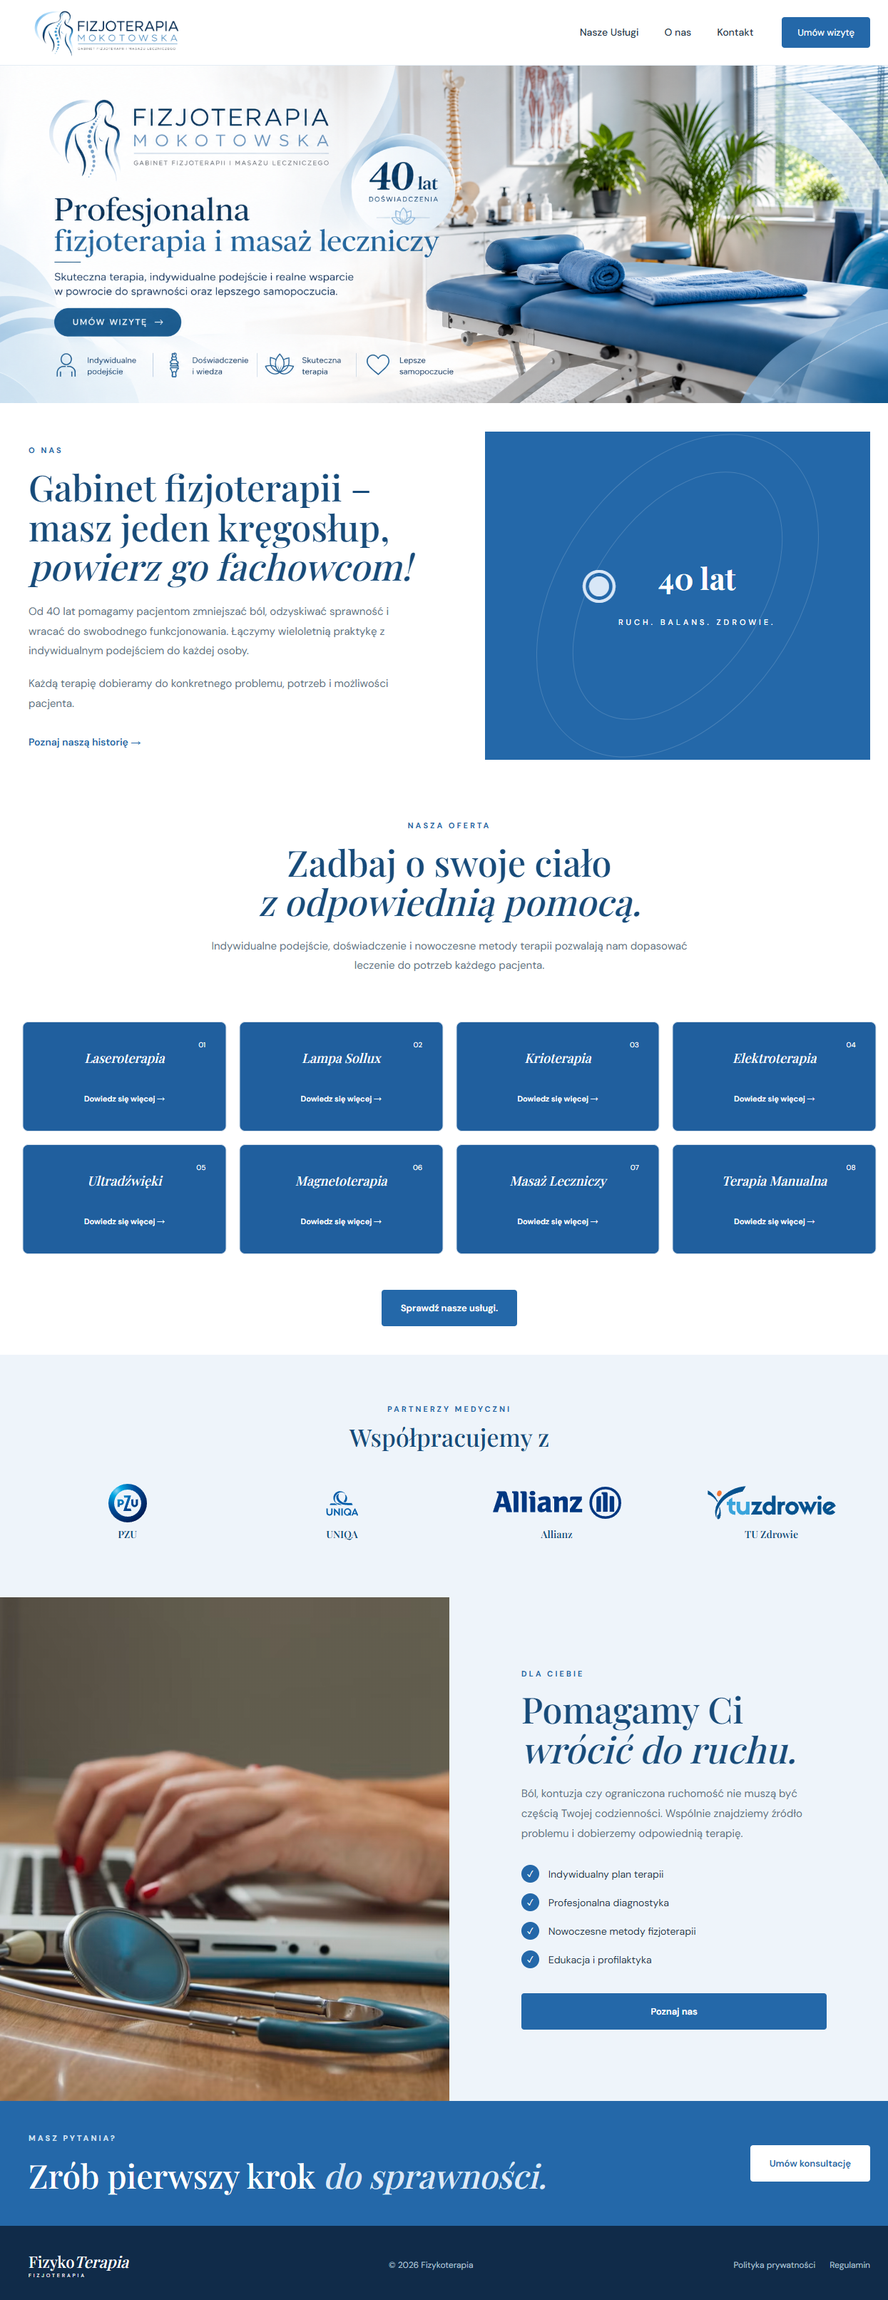
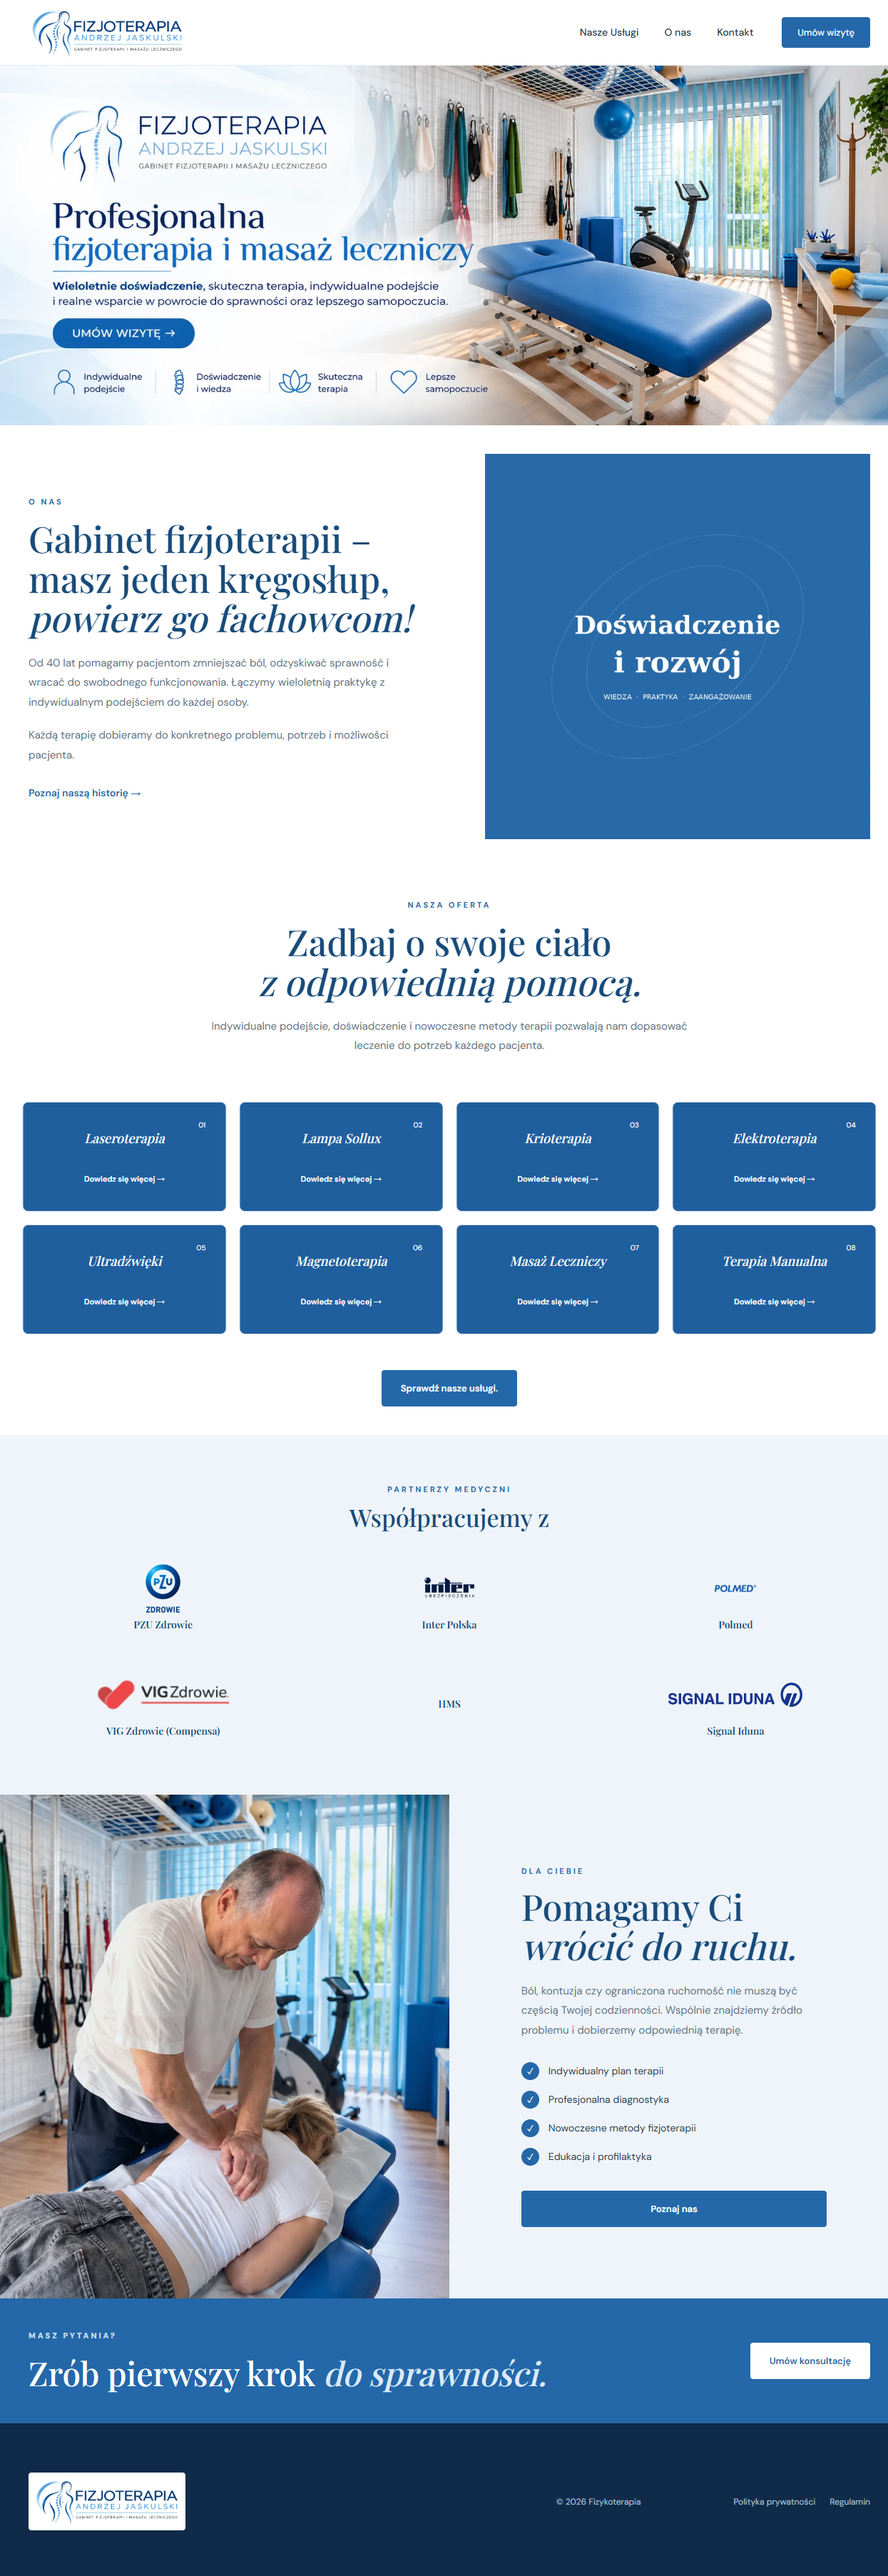
poprawki

diff --git a/.html/index.html b/.html/index.html
@@ -18,7 +18,7 @@
     <div class="container nav-inner">
 
         <a href="kontakt.html" class="logo">
-            <img class="logo-image" src="images/logo_fizjo%20(1).png" alt="Fizjoterapia Mokotowska">
+            <img class="logo-image" src="images/logo-masaz-aj.webp" alt="Fizjoterapia Mokotowska">
         </a>
 
         <nav>
@@ -41,7 +41,7 @@
 
 <section class="hero home-hero">
 
-    <img class="hero-image" src="images/baner-glowny.png" alt="Fizjoterapia Mokotowska: profesjonalna fizjoterapia i masaż leczniczy w gabinecie">
+    <img class="hero-image" src="images/head.webp" alt="Fizjoterapia Mokotowska: profesjonalna fizjoterapia i masaż leczniczy w gabinecie">
 
 </section>
 
@@ -80,17 +80,10 @@
         </div>
 
         <div class="about-box">
-
-            <div class="owl">
-                ◉
-            </div>
-
-            <h3>
-                40 lat
-                <br>
-                <span>Ruch. Balans. Zdrowie.</span>
-            </h3>
-
+            <img
+                class="about-box-image"
+                src="images/doswiadczenie_i_rozwoj.webp"
+                alt="Doświadczenie i rozwój — wiedza, praktyka, zaangażowanie">
         </div>
 
     </div>
@@ -223,20 +216,27 @@
 
         <div class="partner-list">
             <div class="partner-logo">
-                <img src="images/pzu-logo.svg" alt="">
-                <span class="partner-name">PZU</span>
+                <img src="https://zdrowie.pzu.pl/_fileserver/item/1501252" alt="Logo PZU Zdrowie">
+                <span class="partner-name">PZU Zdrowie</span>
             </div>
             <div class="partner-logo">
-                <img src="images/uniqa-logo.svg" alt="">
-                <span class="partner-name">UNIQA</span>
+                <img src="https://upload.wikimedia.org/wikipedia/commons/e/e2/INTER_Polska.jpg" alt="Logo INTER Polska">
+                <span class="partner-name">Inter Polska</span>
             </div>
             <div class="partner-logo">
-                <img src="images/allianz-logo.svg" alt="">
-                <span class="partner-name">Allianz</span>
+                <img src="https://polmed.pl/wp-content/uploads/2023/02/polmed_logo_RGB_SQUARE.png" alt="Logo POLMED">
+                <span class="partner-name">Polmed</span>
             </div>
             <div class="partner-logo">
-                <img src="images/tu-zdrowie-logo.svg" alt="">
-                <span class="partner-name">TU Zdrowie</span>
+                <img src="https://www.vigzdrowie.pl/wp-content/uploads/2026/02/cropped-logo_VIGZdrowie_RGB-208x55.png" alt="Logo VIG Zdrowie">
+                <span class="partner-name">VIG Zdrowie (Compensa)</span>
+            </div>
+            <div class="partner-logo">
+                <span class="partner-name">HMS</span>
+            </div>
+            <div class="partner-logo">
+                <img src="https://upload.wikimedia.org/wikipedia/commons/d/d1/Signal_Iduna_logo.svg" alt="Logo SIGNAL IDUNA">
+                <span class="partner-name">Signal Iduna</span>
             </div>
         </div>
 
@@ -329,7 +329,7 @@
     <div class="container footer-inner">
 
         <a href="index.html" class="footer-logo footer-logo-home">
-            <img src="images/logo_fizjo%20(1).png" alt="Fizjoterapia Mokotowska">
+            <img src="images/logo-masaz-aj.webp" alt="Fizjoterapia Mokotowska">
         </a>
 
         <div class="footer-map">

diff --git a/.html/css/style.css b/.html/css/style.css
@@ -163,7 +163,7 @@ nav a:hover {
             rgba(235,243,251,.91) 42%,
             rgba(235,243,251,.25) 100%
         ),
-        url("../images/ZdjecieTymczasowe.png") center center / cover no-repeat;
+        url("../images/head.webp") center center / cover no-repeat;
 }
 
 .home-hero {
@@ -331,7 +331,7 @@ h2 i {
 
 .partner-list {
     display: grid;
-    grid-template-columns: repeat(4, minmax(0, 1fr));
+    grid-template-columns: repeat(3, minmax(0, 1fr));
     align-items: center;
     justify-items: center;
     gap: 24px;
@@ -348,10 +348,11 @@ h2 i {
 }
 
 .partner-logo img {
-    width: 180px;
+    width: 190px;
     max-width: 100%;
-    height: 54px;
+    height: 68px;
     object-fit: contain;
+    mix-blend-mode: multiply;
 }
 
 .partner-name {
@@ -511,7 +512,7 @@ h2 i {
 .split-image {
     background:
         linear-gradient(rgba(36,104,169,.08), rgba(36,104,169,.08)),
-        url("https://images.unsplash.com/photo-1576091160550-2173dba999ef?auto=format&fit=crop&w=1200&q=85") 
+        url("../images/masazysta-andrzej-jaskulski.webp")
         center/cover; 
 } 
  
@@ -583,54 +584,16 @@ h2 i {
 } 
  
 .about-box { 
-    min-height: 460px; 
-    background: var(--green); 
-    position: relative; 
-    display: flex; 
-    align-items: center; 
-    justify-content: center; 
-    text-align: center; 
+    aspect-ratio: 1;
     overflow: hidden; 
 } 
  
-.about-box::before, 
-.about-box::after { 
-    content: ""; 
-    position: absolute; 
-    width: 330px; 
-    height: 500px; 
-    border: 1px solid rgba(255,255,255,.16); 
-    border-radius: 50%; 
-    transform: rotate(35deg); 
-} 
- 
-.about-box::after { 
-    width: 230px; 
-    height: 390px; 
-} 
- 
-.owl { 
-    font-size: 65px; 
-    color: #d8e7f7;
-    margin-bottom: 25px; 
-} 
- 
-.about-box h3 { 
-    position: relative; 
-    z-index: 2; 
-    color: white; 
-    font-family: var(--serif); 
-    font-size: 42px; 
-    line-height: 1.15; 
-} 
- 
-.about-box h3 span { 
-    font-family: var(--sans); 
-    font-size: 11px; 
-    letter-spacing: 4px; 
-    font-weight: 500; 
-    text-transform: uppercase; 
-} 
+.about-box-image {
+    display: block;
+    width: 100%;
+    height: 100%;
+    object-fit: cover;
+}
  
  
 /* REVIEWS */ 
@@ -1067,14 +1030,6 @@ footer {
     .about-grid,
     .contact-grid {
         gap: 36px;
-    }
-
-    .about-box {
-        min-height: 320px;
-    }
-
-    .about-box h3 {
-        font-size: 34px;
     }
 
     .contact-details {

diff --git a/.html/uslugi.html b/.html/uslugi.html
@@ -162,7 +162,7 @@
     <div class="container footer-inner">
 
         <a href="index.html" class="footer-logo">
-            <img src="images/logo_fizjo%20(1).png" alt="Fizjoterapia Mokotowska">
+            <img src="images/logo-masaz-aj.webp" alt="Fizjoterapia Mokotowska">
         </a>
 
         <p>

diff --git a/.html/kontakt.html b/.html/kontakt.html
@@ -88,7 +88,7 @@
     <div class="container footer-inner">
 
         <a href="index.html" class="footer-logo">
-            <img src="images/logo_fizjo%20(1).png" alt="Fizjoterapia Mokotowska">
+            <img src="images/logo-masaz-aj.webp" alt="Fizjoterapia Mokotowska">
         </a>
 
         <p>

diff --git a/.html/o-mnie.html b/.html/o-mnie.html
@@ -69,7 +69,7 @@
     <div class="container footer-inner">
 
         <a href="index.html" class="footer-logo">
-            <img src="images/logo_fizjo%20(1).png" alt="Fizjoterapia Mokotowska">
+            <img src="images/logo-masaz-aj.webp" alt="Fizjoterapia Mokotowska">
         </a>
 
         <p>
